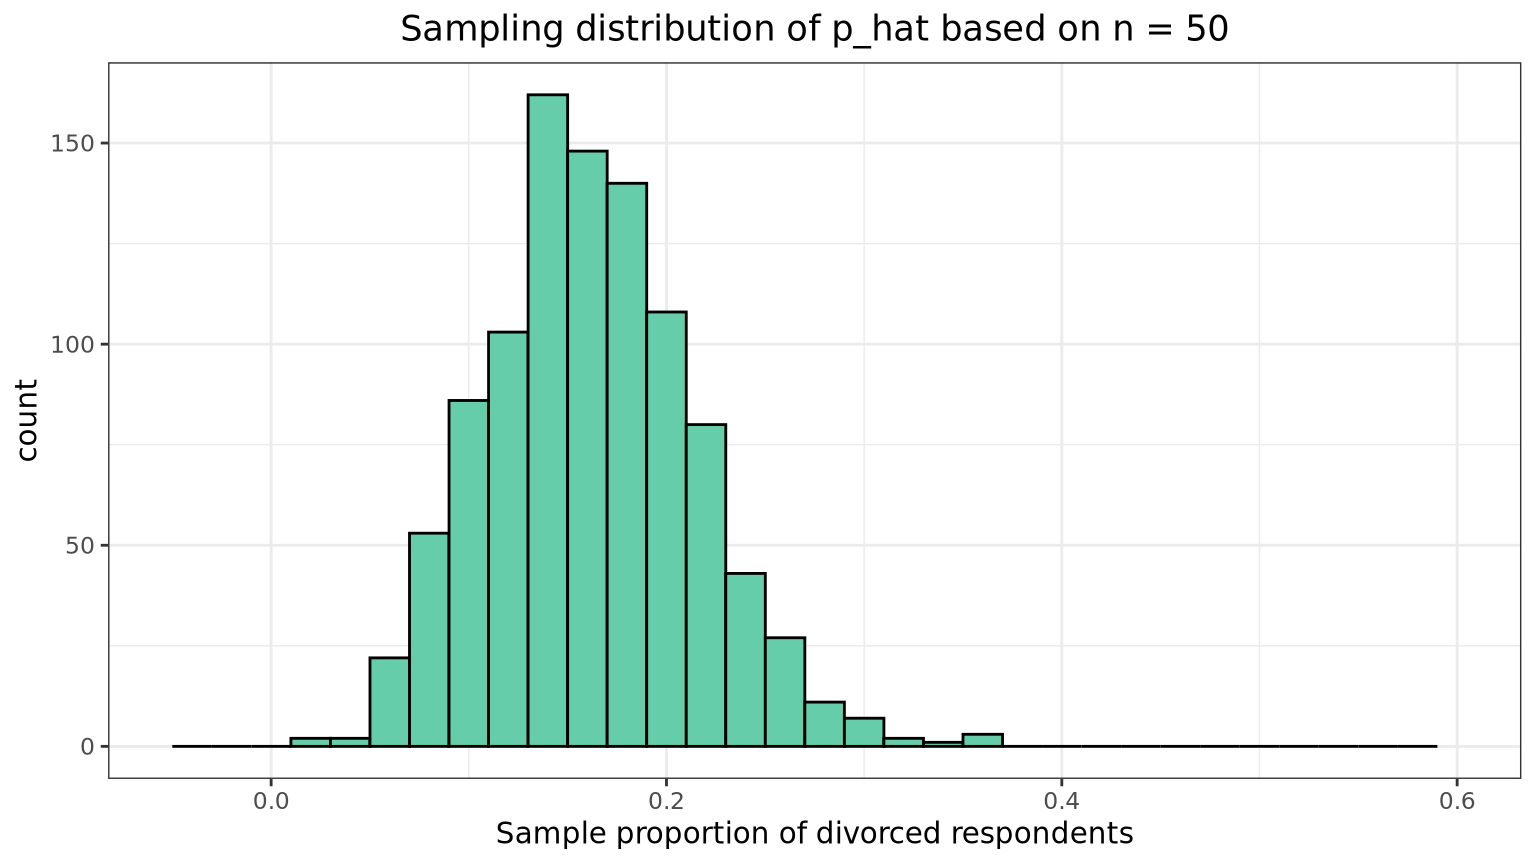
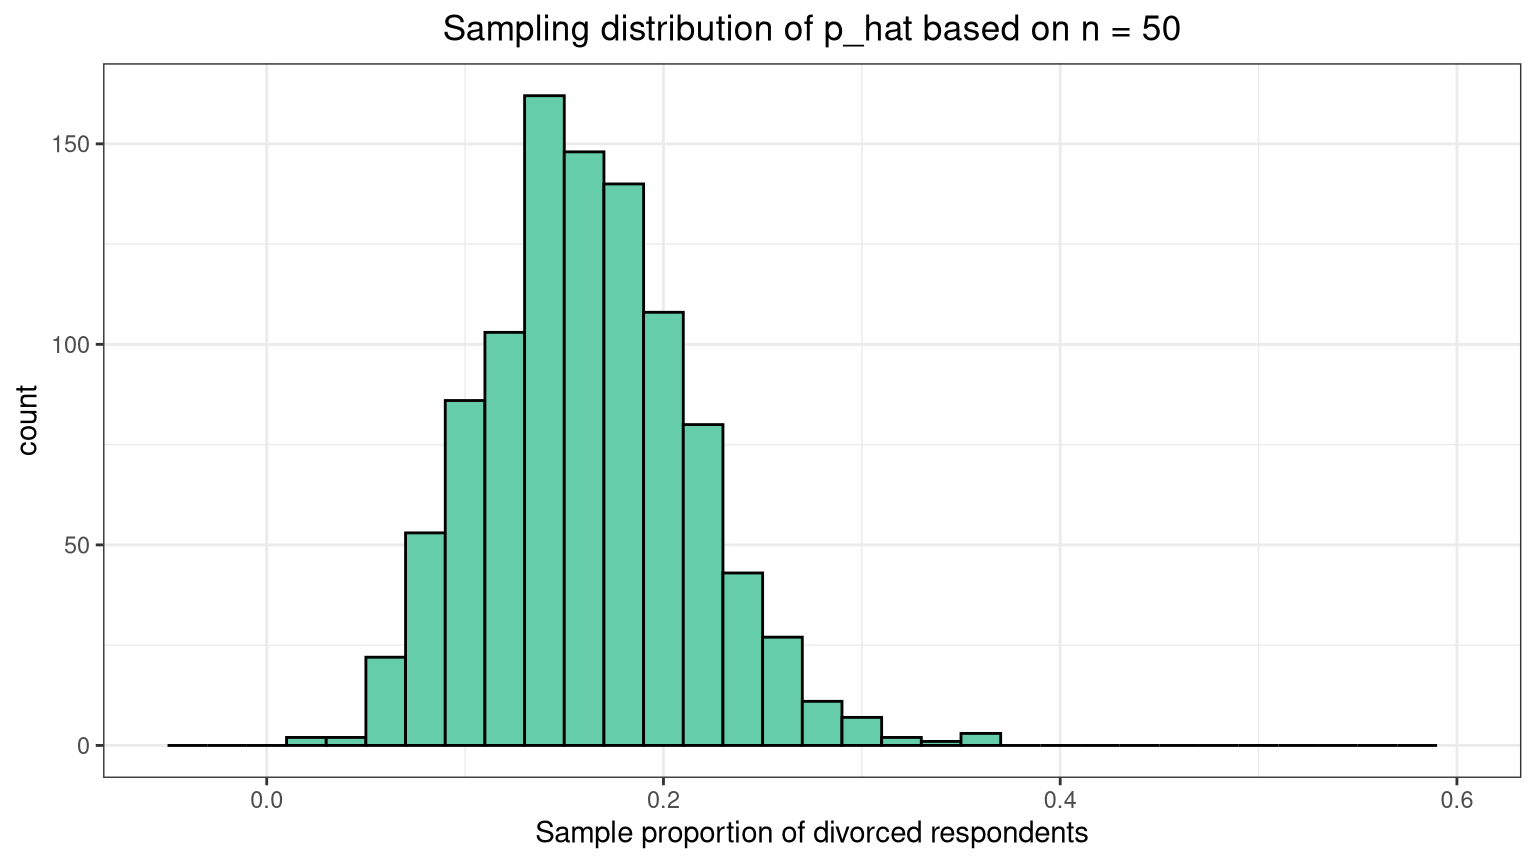
tweakers

diff --git a/PS07_source.html b/PS07_source.html
@@ -100,7 +100,7 @@ pre > code.sourceCode > span > a:first-child::before { text-decoration: underlin
     <div>
     <div class="quarto-title-meta-heading">Published</div>
     <div class="quarto-title-meta-contents">
-      <p class="date">Last modified on August 07, 2023 16:39:50 Eastern Daylight Time</p>
+      <p class="date">Last modified on August 24, 2024 10:40:26 Eastern Daylight Time</p>
     </div>
   </div>
   
@@ -266,8 +266,8 @@ R Code
 <div class="cell-output cell-output-stdout">
 <pre><code>[1] 2014</code></pre>
 </div>
-<div class="sourceCode cell-code" id="cb7"><pre class="sourceCode r code-with-copy"><code class="sourceCode r"><span id="cb7-1"><a href="#cb7-1" aria-hidden="true" tabindex="-1"></a>gss_YEAR <span class="ot">&lt;-</span> gss_cat <span class="sc">%&gt;%</span> </span>
-<span id="cb7-2"><a href="#cb7-2" aria-hidden="true" tabindex="-1"></a>  <span class="fu">filter</span>(year <span class="sc">==</span> YEAR) <span class="sc">%&gt;%</span> </span>
+<div class="sourceCode cell-code" id="cb7"><pre class="sourceCode r code-with-copy"><code class="sourceCode r"><span id="cb7-1"><a href="#cb7-1" aria-hidden="true" tabindex="-1"></a>gss_YEAR <span class="ot">&lt;-</span> gss_cat <span class="sc">|&gt;</span> </span>
+<span id="cb7-2"><a href="#cb7-2" aria-hidden="true" tabindex="-1"></a>  <span class="fu">filter</span>(year <span class="sc">==</span> YEAR) <span class="sc">|&gt;</span> </span>
 <span id="cb7-3"><a href="#cb7-3" aria-hidden="true" tabindex="-1"></a>  <span class="fu">select</span>(marital)</span></code><button title="Copy to Clipboard" class="code-copy-button"><i class="bi"></i></button></pre></div>
 </div>
 </div>
@@ -284,7 +284,7 @@ R Code
 </div>
 <div class="callout-body-container callout-body">
 <div class="cell" data-layout-align="center">
-<div class="sourceCode cell-code" id="cb8"><pre class="sourceCode r code-with-copy"><code class="sourceCode r"><span id="cb8-1"><a href="#cb8-1" aria-hidden="true" tabindex="-1"></a>gss_YEAR  <span class="sc">%&gt;%</span> </span>
+<div class="sourceCode cell-code" id="cb8"><pre class="sourceCode r code-with-copy"><code class="sourceCode r"><span id="cb8-1"><a href="#cb8-1" aria-hidden="true" tabindex="-1"></a>gss_YEAR  <span class="sc">|&gt;</span> </span>
 <span id="cb8-2"><a href="#cb8-2" aria-hidden="true" tabindex="-1"></a>  <span class="fu">distinct</span>(marital) </span></code><button title="Copy to Clipboard" class="code-copy-button"><i class="bi"></i></button></pre></div>
 <div class="cell-output cell-output-stdout">
 <pre><code># A tibble: 6 × 1
@@ -323,9 +323,9 @@ R Code
 </div>
 <div class="callout-body-container callout-body">
 <div class="cell" data-layout-align="center">
-<div class="sourceCode cell-code" id="cb11"><pre class="sourceCode r code-with-copy"><code class="sourceCode r"><span id="cb11-1"><a href="#cb11-1" aria-hidden="true" tabindex="-1"></a>gss_YEAR <span class="sc">%&gt;%</span> </span>
+<div class="sourceCode cell-code" id="cb11"><pre class="sourceCode r code-with-copy"><code class="sourceCode r"><span id="cb11-1"><a href="#cb11-1" aria-hidden="true" tabindex="-1"></a>gss_YEAR <span class="sc">|&gt;</span> </span>
 <span id="cb11-2"><a href="#cb11-2" aria-hidden="true" tabindex="-1"></a>  <span class="fu">summarize</span>(<span class="at">divorced =</span> <span class="fu">sum</span>(marital <span class="sc">==</span> <span class="st">"Divorced"</span>), </span>
-<span id="cb11-3"><a href="#cb11-3" aria-hidden="true" tabindex="-1"></a>            <span class="at">N =</span> <span class="fu">n</span>(), <span class="at">p2 =</span> <span class="fu">mean</span>(marital <span class="sc">==</span> <span class="st">"Divorced"</span>)) <span class="sc">%&gt;%</span> </span>
+<span id="cb11-3"><a href="#cb11-3" aria-hidden="true" tabindex="-1"></a>            <span class="at">N =</span> <span class="fu">n</span>(), <span class="at">p2 =</span> <span class="fu">mean</span>(marital <span class="sc">==</span> <span class="st">"Divorced"</span>)) <span class="sc">|&gt;</span> </span>
 <span id="cb11-4"><a href="#cb11-4" aria-hidden="true" tabindex="-1"></a>  <span class="fu">mutate</span>(<span class="at">p =</span> divorced <span class="sc">/</span> N) <span class="ot">-&gt;</span> ans</span>
 <span id="cb11-5"><a href="#cb11-5" aria-hidden="true" tabindex="-1"></a>ans</span></code><button title="Copy to Clipboard" class="code-copy-button"><i class="bi"></i></button></pre></div>
 <div class="cell-output cell-output-stdout">
@@ -354,7 +354,7 @@ Note
 <div class="callout-body-container callout-body">
 <ul>
 <li><p>We use <span class="math inline">\(N\)</span> for the size of the full population of 2538 people, and <span class="math inline">\(p\)</span> because we are calculating the TRUE population proportion <span class="math inline">\(p\)</span>.</p></li>
-<li><p>Inference to the population is not needed. We do not need to use a <strong>sample</strong> to try to infer something about the <strong>true population proportion</strong> <span class="math inline">\(p\)</span> of divorced people in this neighborhood in 2014. We know that $p = 0.1619385$.</p></li>
+<li><p>Inference to the population is not needed. We do not need to use a <strong>sample</strong> to try to infer something about the <strong>true population proportion</strong> <span class="math inline">\(p\)</span> of divorced people in this neighborhood in 2014. We know that <span class="math inline">\(p = 0.1619385\)</span>.</p></li>
 </ul>
 </div>
 </div>
@@ -391,7 +391,7 @@ R Code
 <div class="callout-body-container callout-body">
 <div class="cell" data-layout-align="center">
 <div class="sourceCode cell-code" id="cb15"><pre class="sourceCode r code-with-copy"><code class="sourceCode r"><span id="cb15-1"><a href="#cb15-1" aria-hidden="true" tabindex="-1"></a><span class="fu">set.seed</span>(<span class="dv">0804</span>)</span>
-<span id="cb15-2"><a href="#cb15-2" aria-hidden="true" tabindex="-1"></a>n50_1rep <span class="ot">&lt;-</span> gss_YEAR <span class="sc">%&gt;%</span> </span>
+<span id="cb15-2"><a href="#cb15-2" aria-hidden="true" tabindex="-1"></a>n50_1rep <span class="ot">&lt;-</span> gss_YEAR <span class="sc">|&gt;</span> </span>
 <span id="cb15-3"><a href="#cb15-3" aria-hidden="true" tabindex="-1"></a>  <span class="fu">rep_sample_n</span>(<span class="at">size =</span> <span class="dv">50</span>, <span class="at">reps =</span> <span class="dv">1</span>)</span>
 <span id="cb15-4"><a href="#cb15-4" aria-hidden="true" tabindex="-1"></a><span class="fu">head</span>(n50_1rep)</span></code><button title="Copy to Clipboard" class="code-copy-button"><i class="bi"></i></button></pre></div>
 <div class="cell-output cell-output-stdout">
@@ -430,10 +430,10 @@ R Code
 </div>
 <div class="callout-body-container callout-body">
 <div class="cell" data-layout-align="center">
-<div class="sourceCode cell-code" id="cb19"><pre class="sourceCode r code-with-copy"><code class="sourceCode r"><span id="cb19-1"><a href="#cb19-1" aria-hidden="true" tabindex="-1"></a>ans1 <span class="ot">&lt;-</span> n50_1rep <span class="sc">%&gt;%</span> </span>
+<div class="sourceCode cell-code" id="cb19"><pre class="sourceCode r code-with-copy"><code class="sourceCode r"><span id="cb19-1"><a href="#cb19-1" aria-hidden="true" tabindex="-1"></a>ans1 <span class="ot">&lt;-</span> n50_1rep <span class="sc">|&gt;</span> </span>
 <span id="cb19-2"><a href="#cb19-2" aria-hidden="true" tabindex="-1"></a>  <span class="fu">summarize</span>(<span class="at">divorce_count =</span> <span class="fu">sum</span>(marital <span class="sc">==</span> <span class="st">"Divorced"</span>), </span>
 <span id="cb19-3"><a href="#cb19-3" aria-hidden="true" tabindex="-1"></a>            <span class="at">phat =</span> <span class="fu">mean</span>(marital <span class="sc">==</span> <span class="st">"Divorced"</span>),</span>
-<span id="cb19-4"><a href="#cb19-4" aria-hidden="true" tabindex="-1"></a>            <span class="at">n =</span> <span class="fu">n</span>()) <span class="sc">%&gt;%</span> </span>
+<span id="cb19-4"><a href="#cb19-4" aria-hidden="true" tabindex="-1"></a>            <span class="at">n =</span> <span class="fu">n</span>()) <span class="sc">|&gt;</span> </span>
 <span id="cb19-5"><a href="#cb19-5" aria-hidden="true" tabindex="-1"></a>  <span class="fu">mutate</span>(<span class="at">p_hat =</span> divorce_count<span class="sc">/</span> n)</span>
 <span id="cb19-6"><a href="#cb19-6" aria-hidden="true" tabindex="-1"></a>ans1</span></code><button title="Copy to Clipboard" class="code-copy-button"><i class="bi"></i></button></pre></div>
 <div class="cell-output cell-output-stdout">
@@ -545,9 +545,9 @@ R Code
 </div>
 <div class="callout-body-container callout-body">
 <div class="cell" data-layout-align="center">
-<div class="sourceCode cell-code" id="cb23"><pre class="sourceCode r code-with-copy"><code class="sourceCode r"><span id="cb23-1"><a href="#cb23-1" aria-hidden="true" tabindex="-1"></a>n50_1rep <span class="sc">%&gt;%</span> </span>
+<div class="sourceCode cell-code" id="cb23"><pre class="sourceCode r code-with-copy"><code class="sourceCode r"><span id="cb23-1"><a href="#cb23-1" aria-hidden="true" tabindex="-1"></a>n50_1rep <span class="sc">|&gt;</span> </span>
 <span id="cb23-2"><a href="#cb23-2" aria-hidden="true" tabindex="-1"></a>  <span class="fu">summarize</span>(<span class="at">divorce_count =</span> <span class="fu">sum</span>(marital <span class="sc">==</span> <span class="st">"Divorced"</span>), </span>
-<span id="cb23-3"><a href="#cb23-3" aria-hidden="true" tabindex="-1"></a>            <span class="at">n =</span> <span class="fu">n</span>()) <span class="sc">%&gt;%</span></span>
+<span id="cb23-3"><a href="#cb23-3" aria-hidden="true" tabindex="-1"></a>            <span class="at">n =</span> <span class="fu">n</span>()) <span class="sc">|&gt;</span></span>
 <span id="cb23-4"><a href="#cb23-4" aria-hidden="true" tabindex="-1"></a>  <span class="fu">mutate</span>(<span class="at">p_hat =</span> divorce_count<span class="sc">/</span> n, </span>
 <span id="cb23-5"><a href="#cb23-5" aria-hidden="true" tabindex="-1"></a>         <span class="at">se_hat =</span> <span class="fu">sqrt</span>(p_hat <span class="sc">*</span> (<span class="dv">1</span> <span class="sc">-</span> p_hat) <span class="sc">/</span> n)) <span class="ot">-&gt;</span> n50_1rep_ans</span>
 <span id="cb23-6"><a href="#cb23-6" aria-hidden="true" tabindex="-1"></a>n50_1rep_ans</span></code><button title="Copy to Clipboard" class="code-copy-button"><i class="bi"></i></button></pre></div>
@@ -593,7 +593,7 @@ R Code
 <div class="callout-body-container callout-body">
 <div class="cell" data-layout-align="center">
 <div class="sourceCode cell-code" id="cb25"><pre class="sourceCode r code-with-copy"><code class="sourceCode r"><span id="cb25-1"><a href="#cb25-1" aria-hidden="true" tabindex="-1"></a><span class="fu">set.seed</span>(<span class="dv">19</span>)</span>
-<span id="cb25-2"><a href="#cb25-2" aria-hidden="true" tabindex="-1"></a>n50_1000rep <span class="ot">&lt;-</span> gss_YEAR <span class="sc">%&gt;%</span> </span>
+<span id="cb25-2"><a href="#cb25-2" aria-hidden="true" tabindex="-1"></a>n50_1000rep <span class="ot">&lt;-</span> gss_YEAR <span class="sc">|&gt;</span> </span>
 <span id="cb25-3"><a href="#cb25-3" aria-hidden="true" tabindex="-1"></a>  <span class="fu">rep_sample_n</span>(<span class="at">size =</span> <span class="dv">50</span>, <span class="at">reps =</span> <span class="dv">1000</span>)</span>
 <span id="cb25-4"><a href="#cb25-4" aria-hidden="true" tabindex="-1"></a><span class="fu">head</span>(n50_1000rep)</span></code><button title="Copy to Clipboard" class="code-copy-button"><i class="bi"></i></button></pre></div>
 <div class="cell-output cell-output-stdout">
@@ -699,10 +699,10 @@ R Code
 </div>
 <div class="callout-body-container callout-body">
 <div class="cell" data-layout-align="center">
-<div class="sourceCode cell-code" id="cb29"><pre class="sourceCode r code-with-copy"><code class="sourceCode r"><span id="cb29-1"><a href="#cb29-1" aria-hidden="true" tabindex="-1"></a>p_hat_n50_1000rep <span class="ot">&lt;-</span> n50_1000rep <span class="sc">%&gt;%</span> </span>
-<span id="cb29-2"><a href="#cb29-2" aria-hidden="true" tabindex="-1"></a>  <span class="fu">group_by</span>(replicate) <span class="sc">%&gt;%</span> </span>
+<div class="sourceCode cell-code" id="cb29"><pre class="sourceCode r code-with-copy"><code class="sourceCode r"><span id="cb29-1"><a href="#cb29-1" aria-hidden="true" tabindex="-1"></a>p_hat_n50_1000rep <span class="ot">&lt;-</span> n50_1000rep <span class="sc">|&gt;</span> </span>
+<span id="cb29-2"><a href="#cb29-2" aria-hidden="true" tabindex="-1"></a>  <span class="fu">group_by</span>(replicate) <span class="sc">|&gt;</span> </span>
 <span id="cb29-3"><a href="#cb29-3" aria-hidden="true" tabindex="-1"></a>  <span class="fu">summarize</span>(<span class="at">divorce_count =</span> <span class="fu">sum</span>(marital <span class="sc">==</span> <span class="st">"Divorced"</span>), </span>
-<span id="cb29-4"><a href="#cb29-4" aria-hidden="true" tabindex="-1"></a>            <span class="at">n =</span> <span class="fu">n</span>()) <span class="sc">%&gt;%</span> </span>
+<span id="cb29-4"><a href="#cb29-4" aria-hidden="true" tabindex="-1"></a>            <span class="at">n =</span> <span class="fu">n</span>()) <span class="sc">|&gt;</span> </span>
 <span id="cb29-5"><a href="#cb29-5" aria-hidden="true" tabindex="-1"></a>  <span class="fu">mutate</span>(<span class="at">p_hat =</span> divorce_count <span class="sc">/</span> n)</span></code><button title="Copy to Clipboard" class="code-copy-button"><i class="bi"></i></button></pre></div>
 </div>
 </div>
@@ -719,7 +719,7 @@ R Code
 </div>
 <div class="callout-body-container callout-body">
 <div class="cell" data-layout-align="center">
-<div class="sourceCode cell-code" id="cb30"><pre class="sourceCode r code-with-copy"><code class="sourceCode r"><span id="cb30-1"><a href="#cb30-1" aria-hidden="true" tabindex="-1"></a>p_hat_n50_1000rep <span class="sc">%&gt;%</span></span>
+<div class="sourceCode cell-code" id="cb30"><pre class="sourceCode r code-with-copy"><code class="sourceCode r"><span id="cb30-1"><a href="#cb30-1" aria-hidden="true" tabindex="-1"></a>p_hat_n50_1000rep <span class="sc">|&gt;</span></span>
 <span id="cb30-2"><a href="#cb30-2" aria-hidden="true" tabindex="-1"></a>  <span class="fu">slice</span>(<span class="dv">1</span><span class="sc">:</span><span class="dv">5</span>)</span></code><button title="Copy to Clipboard" class="code-copy-button"><i class="bi"></i></button></pre></div>
 <div class="cell-output cell-output-stdout">
 <pre><code># A tibble: 5 × 4
@@ -732,7 +732,7 @@ R Code
 5         5            10    50  0.2 </code></pre>
 </div>
 <div class="sourceCode cell-code" id="cb32"><pre class="sourceCode r code-with-copy"><code class="sourceCode r"><span id="cb32-1"><a href="#cb32-1" aria-hidden="true" tabindex="-1"></a><span class="co"># Or</span></span>
-<span id="cb32-2"><a href="#cb32-2" aria-hidden="true" tabindex="-1"></a>p_hat_n50_1000rep <span class="sc">%&gt;%</span> </span>
+<span id="cb32-2"><a href="#cb32-2" aria-hidden="true" tabindex="-1"></a>p_hat_n50_1000rep <span class="sc">|&gt;</span> </span>
 <span id="cb32-3"><a href="#cb32-3" aria-hidden="true" tabindex="-1"></a>  <span class="fu">head</span>(<span class="at">n =</span> <span class="dv">5</span>)</span></code><button title="Copy to Clipboard" class="code-copy-button"><i class="bi"></i></button></pre></div>
 <div class="cell-output cell-output-stdout">
 <pre><code># A tibble: 5 × 4
@@ -844,7 +844,7 @@ R Code
 </div>
 <div class="callout-body-container callout-body">
 <div class="cell" data-layout-align="center">
-<div class="sourceCode cell-code" id="cb37"><pre class="sourceCode r code-with-copy"><code class="sourceCode r"><span id="cb37-1"><a href="#cb37-1" aria-hidden="true" tabindex="-1"></a>p_hat_n50_1000rep <span class="sc">%&gt;%</span> </span>
+<div class="sourceCode cell-code" id="cb37"><pre class="sourceCode r code-with-copy"><code class="sourceCode r"><span id="cb37-1"><a href="#cb37-1" aria-hidden="true" tabindex="-1"></a>p_hat_n50_1000rep <span class="sc">|&gt;</span> </span>
 <span id="cb37-2"><a href="#cb37-2" aria-hidden="true" tabindex="-1"></a>  <span class="fu">summarize</span>(<span class="at">M_p_hat =</span> <span class="fu">mean</span>(p_hat), </span>
 <span id="cb37-3"><a href="#cb37-3" aria-hidden="true" tabindex="-1"></a>            <span class="at">SE_p_hat =</span> <span class="fu">sd</span>(p_hat))</span></code><button title="Copy to Clipboard" class="code-copy-button"><i class="bi"></i></button></pre></div>
 <div class="cell-output cell-output-stdout">
@@ -1254,10 +1254,10 @@ Problem 18
 <p>Imagine we collected only a single small sample of 15 respondents as given from the code below.</p>
 <div class="cell" data-layout-align="center">
 <div class="sourceCode cell-code" id="cb47"><pre class="sourceCode r code-with-copy"><code class="sourceCode r"><span id="cb47-1"><a href="#cb47-1" aria-hidden="true" tabindex="-1"></a><span class="fu">set.seed</span>(<span class="dv">53</span>)</span>
-<span id="cb47-2"><a href="#cb47-2" aria-hidden="true" tabindex="-1"></a>n15_1rep <span class="ot">&lt;-</span> gss_YEAR <span class="sc">%&gt;%</span> </span>
+<span id="cb47-2"><a href="#cb47-2" aria-hidden="true" tabindex="-1"></a>n15_1rep <span class="ot">&lt;-</span> gss_YEAR <span class="sc">|&gt;</span> </span>
 <span id="cb47-3"><a href="#cb47-3" aria-hidden="true" tabindex="-1"></a>  <span class="fu">rep_sample_n</span>(<span class="at">size =</span> <span class="dv">15</span>, <span class="at">reps =</span> <span class="dv">1</span>)</span>
 <span id="cb47-4"><a href="#cb47-4" aria-hidden="true" tabindex="-1"></a><span class="co"># and</span></span>
-<span id="cb47-5"><a href="#cb47-5" aria-hidden="true" tabindex="-1"></a>n50_1rep <span class="ot">&lt;-</span> gss_YEAR <span class="sc">%&gt;%</span> </span>
+<span id="cb47-5"><a href="#cb47-5" aria-hidden="true" tabindex="-1"></a>n50_1rep <span class="ot">&lt;-</span> gss_YEAR <span class="sc">|&gt;</span> </span>
 <span id="cb47-6"><a href="#cb47-6" aria-hidden="true" tabindex="-1"></a>  <span class="fu">rep_sample_n</span>(<span class="at">size =</span> <span class="dv">50</span>, <span class="at">reps =</span> <span class="dv">1</span>)</span></code><button title="Copy to Clipboard" class="code-copy-button"><i class="bi"></i></button></pre></div>
 </div>
 <p>Following the example from the beginning of the Problem Set (roughly line 138), estimate the <strong>sample proportion</strong> <span class="math inline">\(\hat{p}\)</span> of people who identified as <code>Divorced</code> based on <code>n15_1rep</code>… AS WELL AS the <strong>standard error of</strong> <span class="math inline">\(\hat{p}\)</span>.</p>
@@ -1325,8 +1325,8 @@ Problem 19 Answers
 <div class="callout-body-container callout-body">
 <table class="table">
 <colgroup>
-<col style="width: 23%">
-<col style="width: 41%">
+<col style="width: 25%">
+<col style="width: 40%">
 <col style="width: 34%">
 </colgroup>
 <thead>
@@ -1433,12 +1433,12 @@ Tip
 <div class="cell" data-layout-align="center">
 <div class="sourceCode cell-code" id="cb50"><pre class="sourceCode r code-with-copy"><code class="sourceCode r"><span id="cb50-1"><a href="#cb50-1" aria-hidden="true" tabindex="-1"></a><span class="fu">sessionInfo</span>()</span></code><button title="Copy to Clipboard" class="code-copy-button"><i class="bi"></i></button></pre></div>
 <div class="cell-output cell-output-stdout">
-<pre><code>R version 4.2.3 (2023-03-15)
-Platform: x86_64-pc-linux-gnu (64-bit)
-Running under: Red Hat Enterprise Linux 9.2 (Plow)
+<pre><code>R version 4.4.1 (2024-06-14)
+Platform: x86_64-redhat-linux-gnu
+Running under: Red Hat Enterprise Linux 9.4 (Plow)
 
 Matrix products: default
-BLAS/LAPACK: /usr/lib64/libopenblasp-r0.3.21.so
+BLAS/LAPACK: FlexiBLAS OPENBLAS-OPENMP;  LAPACK version 3.9.0
 
 locale:
  [1] LC_CTYPE=en_US.UTF-8       LC_NUMERIC=C              
@@ -1448,30 +1448,33 @@ locale:
  [9] LC_ADDRESS=C               LC_TELEPHONE=C            
 [11] LC_MEASUREMENT=en_US.UTF-8 LC_IDENTIFICATION=C       
 
+time zone: America/New_York
+tzcode source: system (glibc)
+
 attached base packages:
 [1] stats     graphics  grDevices utils     datasets  methods   base     
 
 other attached packages:
-[1] moderndive_0.5.5 forcats_1.0.0    dplyr_1.1.2      ggplot2_3.4.2   
-[5] knitr_1.43      
+[1] moderndive_0.6.1 forcats_1.0.0    dplyr_1.1.4      ggplot2_3.5.1   
+[5] knitr_1.48      
 
 loaded via a namespace (and not attached):
- [1] pillar_1.9.0         compiler_4.2.2       tools_4.2.2         
- [4] digest_0.6.33        timechange_0.2.0     lubridate_1.9.2     
- [7] jsonlite_1.8.7       evaluate_0.21        lifecycle_1.0.3     
-[10] tibble_3.2.1         gtable_0.3.3         pkgconfig_2.0.3     
-[13] rlang_1.1.1          cli_3.6.1            rstudioapi_0.15.0   
-[16] yaml_2.3.7           xfun_0.39            fastmap_1.1.1       
-[19] stringr_1.5.0        janitor_2.2.0        withr_2.5.0         
-[22] generics_0.1.3       vctrs_0.6.3          htmlwidgets_1.6.2   
-[25] grid_4.2.2           tidyselect_1.2.0     snakecase_0.11.0    
-[28] glue_1.6.2           R6_2.5.1             fansi_1.0.4         
-[31] rmarkdown_2.23       farver_2.1.1         infer_1.0.4         
-[34] purrr_1.0.1          tidyr_1.3.0          magrittr_2.0.3      
-[37] operator.tools_1.6.3 formula.tools_1.7.1  backports_1.4.1     
-[40] scales_1.2.1         htmltools_0.5.5      colorspace_2.1-0    
-[43] labeling_0.4.2       utf8_1.2.3           stringi_1.7.12      
-[46] munsell_0.5.0        broom_1.0.5         </code></pre>
+ [1] gtable_0.3.5         jsonlite_1.8.8       compiler_4.4.1      
+ [4] tidyselect_1.2.1     stringr_1.5.1        snakecase_0.11.1    
+ [7] tidyr_1.3.1          scales_1.3.0         yaml_2.3.10         
+[10] fastmap_1.2.0        R6_2.5.1             labeling_0.4.3      
+[13] generics_0.1.3       infer_1.0.7          htmlwidgets_1.6.4   
+[16] operator.tools_1.6.3 backports_1.5.0      tibble_3.2.1        
+[19] janitor_2.2.0        munsell_0.5.1        lubridate_1.9.3     
+[22] pillar_1.9.0         formula.tools_1.7.1  rlang_1.1.4         
+[25] utf8_1.2.4           stringi_1.8.4        broom_1.0.6         
+[28] xfun_0.47            timechange_0.3.0     cli_3.6.3           
+[31] withr_3.0.1          magrittr_2.0.3       digest_0.6.36       
+[34] grid_4.4.1           rstudioapi_0.16.0    lifecycle_1.0.4     
+[37] vctrs_0.6.5          evaluate_0.24.0      glue_1.7.0          
+[40] farver_2.1.2         fansi_1.0.6          colorspace_2.1-1    
+[43] rmarkdown_2.28       purrr_1.0.2          tools_4.4.1         
+[46] pkgconfig_2.0.3      htmltools_0.5.8.1   </code></pre>
 </div>
 </div>
 </section>
